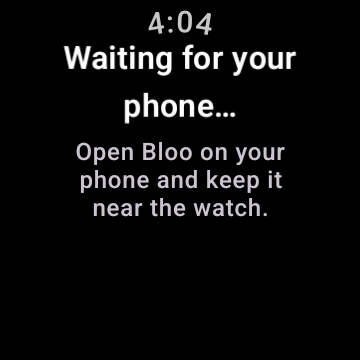
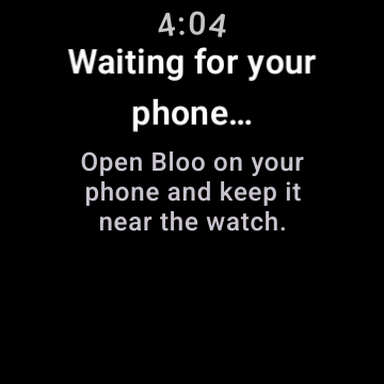
The Wear screenshot was under Play's minimum width
Play refused it with the rule, not a mystery:

  400  "Image aspect ratio invalid - min width: [384], max width: [3840], aspect ratio: [1.0]"

The Wear AVD is 360x360. That is a real watch size -- plenty of watches are 360 -- but Play's floor for
a screenshot is 384, so a capture off one is not uploadable as-is.

Resampled to 384x384 with Lanczos, aspect held at exactly 1:1 (which Play also checks), alpha stripped
again since resampling can reintroduce a channel. 6.7%, on a UI screenshot, is visually nothing.

Said so in play/README.md rather than leaving the number unexplained: this is a resampled real capture,
not a mock, and a capture from a watch that is natively 384 or larger would be better still.

The failed run changed nothing on the live listing: the edit is committed at the end, and the failure
came before that.

diff --git a/play/README.md b/play/README.md
@@ -18,7 +18,11 @@ asset that exists nowhere is an asset nobody can re-upload.
 
 The Wear shot is the watch app's **own** slot (`wearScreenshots`), not a phone screenshot — Play will not
 carry a watch app without at least one image shaped for a watch, which is the same kind of per-form-factor
-requirement as the form factor itself. It is a real capture off the Wear emulator (360×360, circular),
+requirement as the form factor itself. It is a real capture off the Wear emulator, resampled from 360×360 to 384×384 because Play's floor
+is 384 on the short side and the AVD is a 360 watch -- a real size, but under it. Resampling a UI
+screenshot by 6.7% is visually indistinguishable; aspect stays exactly 1:1, which Play also checks.
+
+It was captured
 not a mock, and it shows the companion's honest state: *"Waiting for your phone…"*, because a Wear app
 with `standalone=false` has nothing to show until the phone has paired and pushed a snapshot.
 
